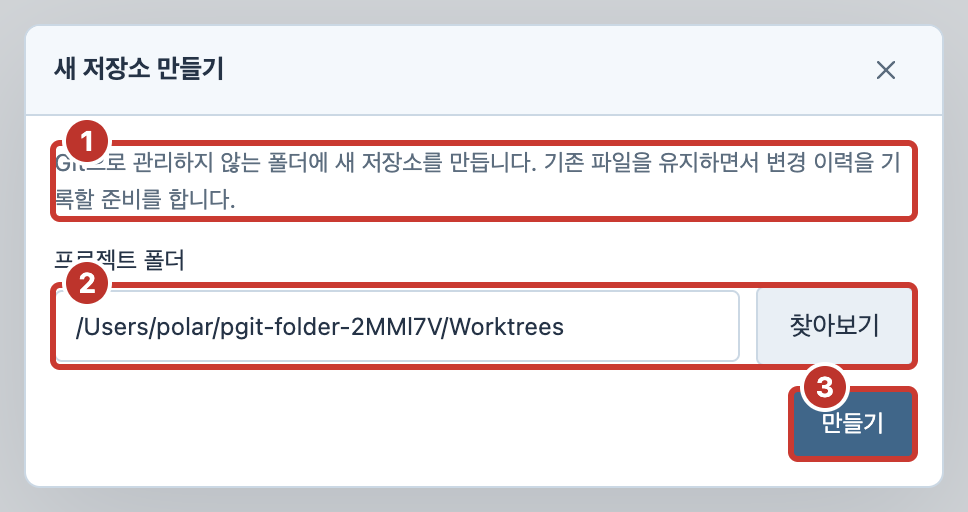
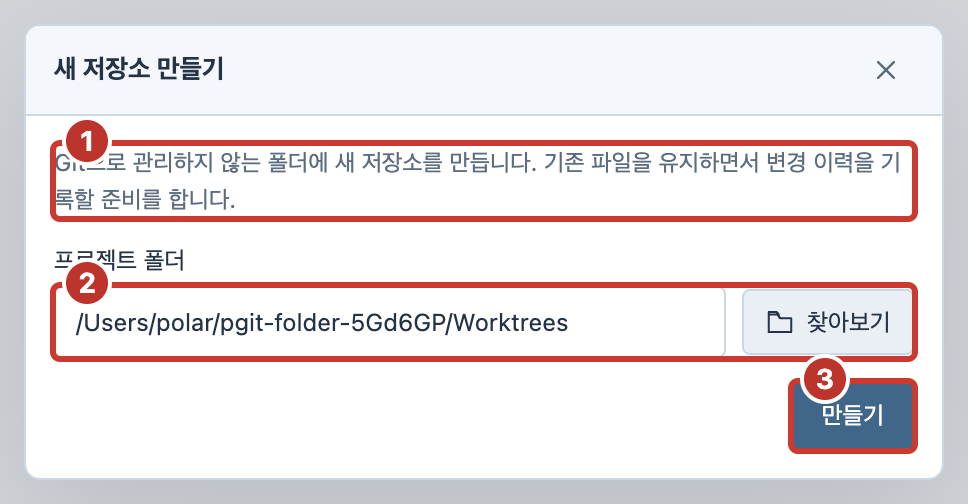
refactor: unify folder picker controls across project workflows

diff --git a/public/shell.js b/public/shell.js
@@ -50,7 +50,7 @@ function setProjectMode(mode){
  byId('pathLabel').textContent=mode==='open'?'프로젝트 폴더':'새 프로젝트의 절대 경로';
  byId('projectTitle').textContent=mode==='open'?'프로젝트 열기':mode==='clone'?'저장소 복제':'새 저장소 만들기';
  byId('projectHelp').textContent=mode==='open'?'':PgitCommandHelp.text(mode);if(mode==='open')delete byId('projectHelp').dataset.commandHelp;else byId('projectHelp').dataset.commandHelp=mode;
- byId('projectHelp').hidden=mode==='open';byId('browseProject').hidden=mode==='clone'||!window.pgitDesktop;
+ byId('projectHelp').hidden=mode==='open';byId('browseProject').hidden=!PgitFolderPicker.available();
  projectBusy();
 }
 function showProjectDialog(mode='open'){if(opening)return;recoveryPath=null;setProjectMode(mode);byId('projectError').textContent='';byId('projectDialog').showModal();byId(mode==='clone'?'cloneUrl':'projectPath').focus()}
@@ -90,7 +90,7 @@ window.addEventListener('message',event=>{if(event.origin!==location.origin||eve
 for(const b of document.querySelectorAll('[data-project-mode]'))b.onclick=()=>setProjectMode(b.dataset.projectMode);
 byId('addProject').onclick=()=>showProjectDialog();byId('welcomeOpen').onclick=()=>showProjectDialog();byId('welcomeClone').onclick=()=>showProjectDialog('clone');PgitIcons.label(byId('homeButton'),'folder');byId('homeButton').onclick=()=>selectProject(null);
 byId('closeProjectDialog').onclick=byId('cancelProject').onclick=()=>{if(!opening)byId('projectDialog').close()};byId('projectDialog').addEventListener('cancel',event=>{if(opening)event.preventDefault()});byId('keepTab').onclick=()=>byId('closeTabDialog').close();byId('discardTab').onclick=()=>{byId('closeTabDialog').close();if(pendingClose)removeProject(pendingClose);pendingClose=null};
-byId('browseProject').onclick=async()=>{const mode=projectMode;try{const path=await PgitFolderPicker.choose({title:'프로젝트 폴더',defaultPath:byId('projectPath').value});if(path&&mode===projectMode&&!opening){byId('projectPath').value=path;clearProjectError();byId('projectPath').focus()}}catch(e){byId('projectError').textContent=e.message}};
+byId('browseProject').onclick=async()=>{const mode=projectMode;byId('browseProject').disabled=true;try{const path=await PgitFolderPicker.choose({title:'프로젝트 폴더',defaultPath:byId('projectPath').value});if(path&&mode===projectMode&&!opening){byId('projectPath').value=mode==='clone'?PgitFolderPicker.childPath(path,PgitFolderPicker.repositoryName(byId('cloneUrl').value)||'project'):path;byId('projectPath').title=byId('projectPath').value;clearProjectError();byId('projectPath').focus()}}catch(e){byId('projectError').textContent=e.message}finally{byId('browseProject').disabled=opening}};
 byId('projectForm').onsubmit=e=>{e.preventDefault();const path=byId('projectPath').value.trim();if(!PgitPaths.isAbsolute(path)){byId('projectError').textContent='폴더의 절대 경로를 입력하세요.';byId('projectPath').setAttribute('aria-invalid','true');byId('projectPath').focus();return}openProject(path,projectMode,{url:byId('cloneUrl').value.trim()})};
 document.addEventListener('keydown',e=>{if(document.querySelector('dialog[open]'))return;if((e.metaKey||e.ctrlKey)&&e.key.toLowerCase()==='t'){e.preventDefault();showProjectDialog()}if((e.metaKey||e.ctrlKey)&&e.key.toLowerCase()==='w'&&activeId){e.preventDefault();requestClose(projects.find(p=>p.id===activeId))}});
 
@@ -124,7 +124,7 @@ setInterval(checkProjectFolders,3000);window.addEventListener('focus',checkProje
 async function restore(){let saved;try{saved=window.pgitDesktop?await window.pgitDesktop.loadWorkspace():JSON.parse(localStorage.getItem(sessionKey)||'null')}catch{}if(saved?.typography)window.PgitSettings.setTypography(saved.typography,{persist:false});if(saved?.theme)window.PgitSettings.setTheme(saved.theme,{persist:false});if(saved?.language)window.PgitI18n.setLanguage(saved.language,{persist:false});if(saved&&Array.isArray(saved.recents))recents=saved.recents.filter(p=>typeof p==='string'&&PgitPaths.isAbsolute(p)).slice(0,18);for(const path of saved?.missingPaths||[])if(typeof path==='string'&&recents.includes(path))missingPaths.add(path);renderRecents();if(saved&&Array.isArray(saved.projects)){for(const item of saved.projects.slice(0,50)){if(missingPaths.has(item.path)||typeof item.path!=='string'||!PgitPaths.isAbsolute(item.path)||projects.some(p=>p.path===item.path))continue;const p=createPane(item.path,item.name);p.initial={action:'open',path:item.path}}selectProject(projects.find(p=>p.path===saved.activePath)?.id||projects[0]?.id||null)}}
 const settingsRoute=location.hash;restore().then(()=>{if(settingsRoute.startsWith('#settings/'))window.PgitSettings.open(['appearance','typography','language','sync'].find(section=>settingsRoute==='#settings/'+section)||'appearance')});
 
-PgitIcons.label(byId('addProject'),'plus');PgitIcons.close(byId('closeProjectDialog'));PgitIcons.label(byId('browseProject'),'folder','찾아보기');
+PgitIcons.label(byId('addProject'),'plus');PgitIcons.close(byId('closeProjectDialog'));PgitFolderPicker.button(byId('browseProject'));byId('browseProject').parentElement.classList.add('folder-picker-field');
 
 const closeDraftDialog=PgitIcons.close(document.createElement('button'));closeDraftDialog.onclick=()=>byId('closeTabDialog').close();byId('closeTabDialog').querySelector('.dialog-heading').append(closeDraftDialog);
 

diff --git a/public/controls.css b/public/controls.css
@@ -478,10 +478,9 @@ body .commit-list-options>button[aria-selected=true]{background:var(--selection,
 .commit-list-options .select-empty{padding:12px;margin:0}
 .worktree-form label:last-of-type{display:flex;flex-direction:column;gap:8px}
 body .worktree-form input[readonly]{background:var(--soft);min-height:36px;flex-shrink:0;cursor:default}
-body .worktree-form .worktree-location-button{align-self:flex-start;display:inline-flex;align-items:center;gap:8px;height:36px}
 .worktree-form label>small{font-size:.85em;color:var(--muted);line-height:1.5}
 .worktree-path-preview{display:block;max-width:100%;padding:10px 12px;border:1px solid var(--border);border-radius:6px;background:var(--soft);font-size:.9em;line-height:1.5;overflow-wrap:anywhere;user-select:text}
-.worktree-location-button[hidden],.worktree-path-preview[hidden]{display:none!important}
+.worktree-path-preview[hidden]{display:none!important}
 body dialog .command-body .commit-message-input{display:block;width:100%;min-height:140px;max-height:280px;resize:vertical;padding:10px 12px;line-height:1.5;white-space:pre-wrap}
 .amend-summary{margin-top:12px;font-size:.9em;line-height:1.5;color:var(--muted);overflow-wrap:anywhere;max-height:120px;overflow:auto}
 .amend-summary strong{display:block;margin-bottom:4px;font-weight:500}
@@ -490,6 +489,13 @@ body #commandDialog[data-dialog-kind=palette] .command-option{display:flex;flex-
 body #commandDialog[data-dialog-kind=palette] .command-option>strong{font-size:1em;font-weight:600;line-height:1.4}
 body #commandDialog[data-dialog-kind=palette] .command-help{margin:0;font-size:.9em;line-height:1.5;color:var(--muted);font-weight:400}
 body dialog :is(.command-body,.advanced-body,.body)>.command-help{margin:0 0 14px;line-height:1.6;color:var(--muted);font-size:.9em;overflow-wrap:anywhere;flex-shrink:0}
-.folder-picker-field{display:flex;align-items:center;gap:8px;min-width:0;margin-bottom:12px}
-body dialog .folder-picker-field input{flex:1;min-width:0;margin:0}
-body dialog .folder-picker-field button{flex-shrink:0;margin:0;white-space:nowrap}
+/* A single folder-picker control in the shell and every workspace dialog. */
+body dialog .folder-picker-field{display:flex;align-items:center;gap:8px;min-width:0;margin:0 0 12px;font-size:var(--ui-font-size,12px)}
+body dialog .folder-picker-field>:is(input,output){flex:1;min-width:0;margin:0;min-height:36px;min-height:2.75em;border-radius:var(--control-radius);font-size:inherit;line-height:1.5}
+body dialog .folder-picker-field>.folder-picker-button{display:inline-flex;align-items:center;justify-content:center;gap:.5em;flex:none;align-self:center;width:auto;height:auto;min-height:36px;min-height:2.75em;padding:.5em .9em;margin:0;border:1px solid var(--border);border-radius:var(--control-radius);background:var(--surface);color:var(--text);font-size:inherit;line-height:1.5;white-space:nowrap}
+body dialog .folder-picker-field>.folder-picker-button:hover{background:var(--soft)}
+body dialog .folder-picker-button .pgit-icon{width:1.25em;height:1.25em;flex:none}
+body dialog .folder-picker-field>output{padding:.5em .75em}
+body #projectDialog .path-field.folder-picker-field{flex-wrap:nowrap}
+
+body #projectDialog .path-field.folder-picker-field input{flex-basis:0;width:0}

diff --git a/public/worktrees.js b/public/worktrees.js
@@ -7,9 +7,9 @@ const worktreeError=el('p',undefined,'command-error');worktreeError.setAttribute
 const worktreeLayout=el('div',undefined,'worktree-layout'),worktreeList=el('div',undefined,'worktree-list'),worktreeDetail=el('section',undefined,'worktree-detail');worktreeList.setAttribute('role','listbox');worktreeList.setAttribute('aria-label','워크트리');worktreeLayout.append(worktreeList,worktreeDetail);
 const worktreeForm=el('form',undefined,'worktree-form');worktreeForm.hidden=true;
 const worktreeInputs={};for(const [name,label,placeholder] of [['name','새 브랜치','feature/task'],['ref','시작 커밋','HEAD'],['path','작업 폴더','/Users/you/Projects/task']]){const lab=el('label',label),input=name==='ref'?PgitCommitPicker.create({history:[]}):el('input');input.name=name;input.required=true;input.placeholder=placeholder;input.setAttribute('aria-label',label);input.className='literal-data';input.autocomplete='off';lab.append(input);worktreeForm.append(lab);worktreeInputs[name]=input}
-const worktreeLocation=el('button','위치 선택'),worktreeLocationHelp=el('small','선택한 위치 안에 새 작업 폴더를 만듭니다.');worktreeLocation.type='button';worktreeLocation.setAttribute('aria-label','위치 선택');worktreeLocation.className='worktree-location-button';PgitIcons.label(worktreeLocation,'folder','위치 선택');
+const worktreeLocation=PgitFolderPicker.button(),worktreeLocationHelp=el('small','선택한 위치 안에 새 작업 폴더를 만듭니다.');
 const worktreePathPreview=el('output',undefined,'worktree-path-preview literal-data');worktreePathPreview.setAttribute('aria-live','polite');
-worktreeLocation.hidden=!PgitFolderPicker.available();worktreePathPreview.hidden=!PgitFolderPicker.available();worktreeInputs.path.hidden=PgitFolderPicker.available();worktreeInputs.path.readOnly=PgitFolderPicker.available();worktreeInputs.path.before(worktreeLocation);worktreeInputs.path.parentElement.append(worktreePathPreview,worktreeLocationHelp);
+worktreeLocation.hidden=!PgitFolderPicker.available();worktreePathPreview.hidden=!PgitFolderPicker.available();worktreeInputs.path.hidden=PgitFolderPicker.available();worktreeInputs.path.readOnly=PgitFolderPicker.available();worktreeInputs.path.parentElement.append(worktreePathPreview,worktreeLocationHelp);const worktreePathField=PgitFolderPicker.field(worktreePathPreview,worktreeLocation).row;worktreePathField.hidden=!PgitFolderPicker.available();
 function updateWorktreePath(value){worktreeInputs.path.value=value;worktreePathPreview.textContent=value||'—'}
 let worktreeParent=null;
 function suggestedWorktreePath(){const root=state.root.replace(/[\\/]+$/,''),name=worktreeInputs.name.value.trim().replace(/[^\p{L}\p{N}._-]+/gu,'-');return name?(worktreeParent?worktreeParent.replace(/[\\/]+$/,'')+(worktreeParent.includes('\\')?'\\':'/')+PgitPaths.basename(root):root)+'-'+name:''}

diff --git a/public/folder-picker.js b/public/folder-picker.js
@@ -2,18 +2,25 @@
 window.PgitFolderPicker=(()=>{
  function desktop(){if(window.pgitDesktop)return window.pgitDesktop;try{if(parent!==window&&parent.location.origin===location.origin)return parent.pgitDesktop}catch{}return null}
  async function choose({title,defaultPath}={}){const bridge=desktop();if(!bridge)return null;return bridge.chooseFolder({title:window.PgitI18n?.t(title)||title,defaultPath})}
+ function button(existing=document.createElement('button')){
+  existing.type='button';existing.classList.add('folder-picker-button');existing.setAttribute('aria-label','찾아보기');
+  PgitIcons.label(existing,'folder','찾아보기');return existing;
+ }
+ function field(input,browse=button()){
+  const row=document.createElement('div');row.className='folder-picker-field';input.before(row);row.append(input,browse);return {row,browse};
+ }
+ function repositoryName(url){return url.trim().replace(/[?#].*$/,'').replace(/\/+$/,'').split(/[/:\\]/).pop().replace(/\.git$/i,'')}
+ function childPath(parent,name){return parent.replace(/[\\/]$/,'')+(parent.includes('\\')?'\\':'/')+name}
  function mount({input,submit,error,url}){
   if(!desktop())return;
-  const row=document.createElement('div');row.className='folder-picker-field';
-  const browse=document.createElement('button');browse.type='button';browse.textContent='찾아보기';
-  input.before(row);row.append(input,browse);input.readOnly=true;submit.disabled=!input.value;
+  const {row,browse}=field(input);input.readOnly=true;submit.disabled=!input.value;
   let parentPath='',nameEdited=false,name;
   const update=()=>{
    if(!url)return;
-   if(!nameEdited)name.value=url.value.trim().replace(/[?#].*$/,'').replace(/\/+$/,'').split(/[/:\\]/).pop().replace(/\.git$/i,'');
+   if(!nameEdited)name.value=repositoryName(url.value);
    const valid=!!name.value.trim()&&!/[\\/:*?"<>|]/.test(name.value)&&!['.','..'].includes(name.value.trim());
    name.setCustomValidity(valid?'':(window.PgitI18n?.t('폴더 이름을 확인하세요.')||'폴더 이름을 확인하세요.'));
-   input.value=parentPath&&valid?parentPath.replace(/[\\/]$/,'')+(parentPath.includes('\\')?'\\':'/')+name.value.trim():'';
+   input.value=parentPath&&valid?childPath(parentPath,name.value.trim()):'';
    input.title=input.value;submit.disabled=!input.value;
   };
   if(url){
@@ -28,5 +35,5 @@ window.PgitFolderPicker=(()=>{
    }catch(e){error.textContent=e.message}finally{browse.disabled=false}
   };
  }
- return {available:()=>!!desktop(),choose,mount};
+ return {available:()=>!!desktop(),choose,mount,button,field,repositoryName,childPath};
 })();
